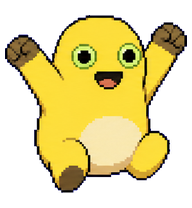
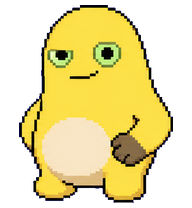
Adjust success animation to confident smug-happy style

diff --git a/yellow-thinker-run/prompts/rows/jumping.md b/yellow-thinker-run/prompts/rows/jumping.md
@@ -15,19 +15,15 @@ Style contract: Codex digital pet sprite style: pixel-art-adjacent low-resolutio
 
 Use this prompt as an authoritative sprite-production spec. Do not expand it into a polished illustration, painterly character image, anime key art, 3D render, vector mascot, glossy app icon, realistic animal portrait, or marketing artwork.
 
-Animation action: success celebration loop with joyful bounce.
-
-State-specific requirements:
-- Read as celebration/success in every frame: happy face, raised paws, upbeat body language.
-- Keep the jump arc simple and readable; emotion should be "I did it", not generic locomotion.
-- Tiny attached celebratory accents are allowed only if touching/overlapping the pet silhouette.
-- Do not depict fear, pain, failure, or neutral idle mood.
+Animation action: smug-happy success loop based on a confident pose.
 
 
 State-specific requirements:
-- Show the jump through pose and vertical body position only: anticipation, lift, airborne peak, descent, settle.
-- Do not draw ground shadows, contact shadows, drop shadows, oval shadows, landing marks, dust, smears, bounce pads, or motion marks under the pet.
-- Keep the background outside the pet perfectly flat chroma key with no darker key-colored patches.
+- Match the reference mood: confident and happy, with a slightly smug face and one paw resting near the belly/hip area.
+- Keep the body mostly grounded and stable instead of big vertical jump arcs.
+- Use subtle celebration motion (small torso sway, eye/mouth variation, tiny posture shifts), not explosive jumping.
+- Emotion should read "mission accomplished" rather than panic or neutral idle.
+- Do not depict fear, pain, failure, or sleepy mood.
 
 Transparency and artifact rules:
 - Prefer pose, expression, and silhouette changes over decorative effects.
